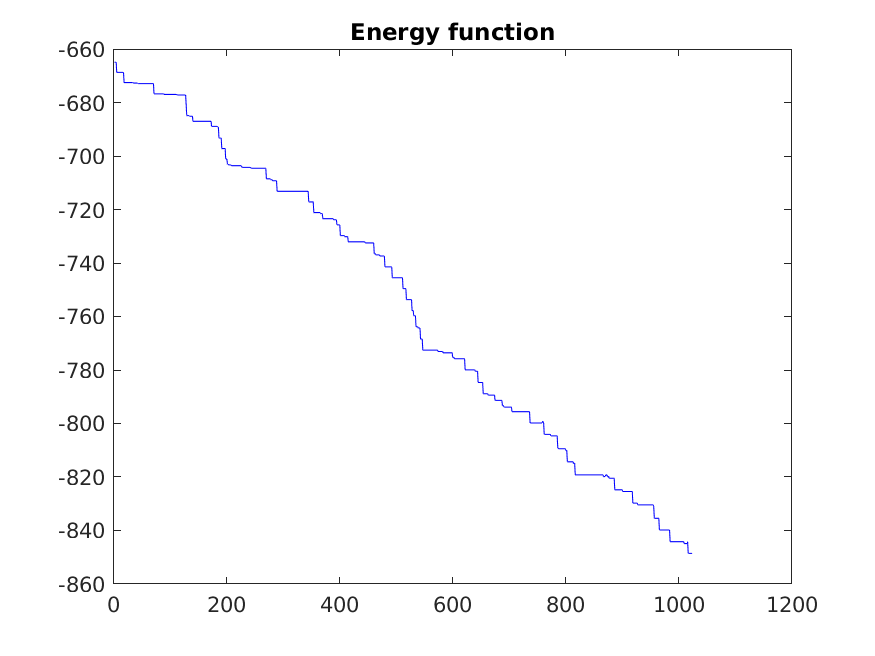
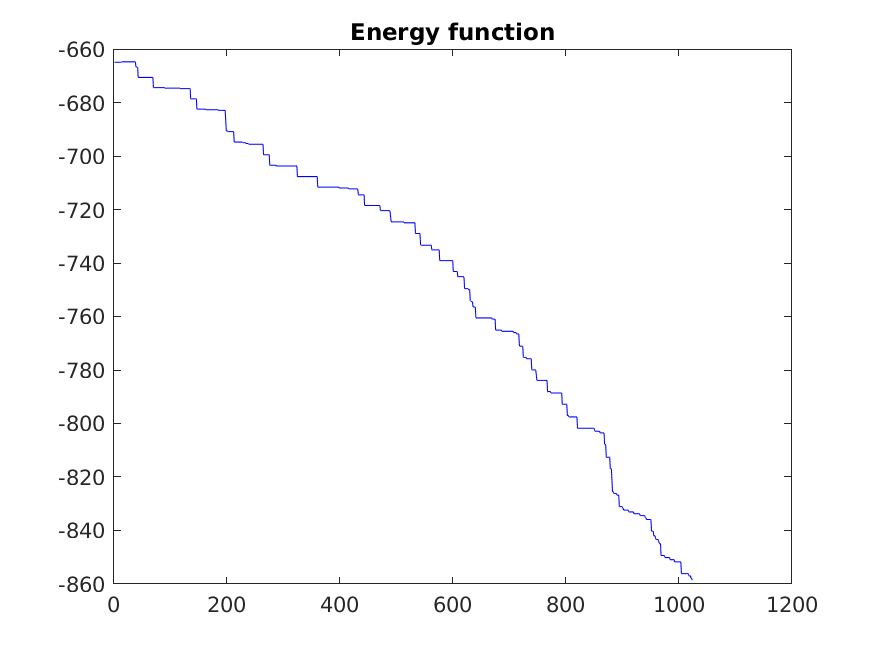
model selection

diff --git a/LAB2_2/Assignment1/main.m b/LAB2_2/Assignment1/main.m
@@ -1,22 +1,40 @@
 data = load("lab2_2_data.mat");
 
 input_patterns = [data.p0, data.p1, data.p2];
-memory_pattern = 0;
-distortion_prop = 0.05;
+distortion_prop = [0.05, 0.1, 0.25];
 
-num_config = 10;
+% Model selection
+tot_discrepancy = 0;
+num_config = 5;
 for config=1:num_config
     bias = (1+1) * rand - 1;
-    Model = Hopfield(input_patterns, memory_pattern+1, bias, distortion_prop);
+    for pattern=1:size(input_patterns,2)
+        for j=1:length(distortion_prop)
+            Model = Hopfield(input_patterns, pattern, bias, distortion_prop(j));
+            tot_discrepancy = tot_discrepancy + Model.discrepancy;
+        end
+    end
+    tot_discrepancy = tot_discrepancy / (size(input_patterns,2) * length(distortion_prop));
+
     % Best configuration
     if config == 1
-        minimum = Model.discrepancy;
+        minimum = tot_discrepancy;
         bias_best = bias;
-    elseif Model.discrepancy < minimum
-        minimum = Model.discrepancy;
+    elseif tot_discrepancy < minimum
+        minimum = tot_discrepancy;
         bias_best = bias;
     end
 end
 
-Model_best = Hopfield(input_patterns, memory_pattern+1, bias_best, distortion_prop);
-Model_best.plot(memory_pattern+1, distortion_prop)
+
+for pattern=1:size(input_patterns,2)
+    for j=1:length(distortion_prop)
+        Model_best = Hopfield(input_patterns, pattern, bias_best, distortion_prop(j));
+        Model_best.plot(pattern, distortion_prop(j))
+    end
+end
+
+%{
+Model_best = Hopfield(input_patterns, index_pattern+1, bias_best, distortion_prop);
+Model_best.plot(index_pattern+1, distortion_prop)
+%}
